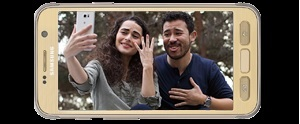
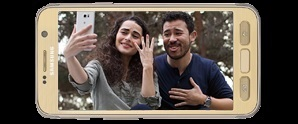
styled animation ad for responsiveness

diff --git a/animations/animation_example1.html b/animations/animation_example1.html
@@ -2,10 +2,11 @@
 <html>
   <head>
     <title>GSAP HTML5 Ad</title>
-    <link rel="stylesheet" href="./css/style.css" />
-    <link rel="stylesheet" href="./css/animate.css">
+    <link rel="stylesheet" href="./css/style.css"/>
+    <link rel="stylesheet" href="./css/animate.css"/>
+    <link rel="stylesheet" href="../css/bootstrap.css"/>
 
-    // load javascript first to prevent initial overlap of slide content
+    <!-- load javascript first to prevent initial overlap of slide content -->
     <script type="text/javascript" src="https://cdnjs.cloudflare.com/ajax/libs/gsap/1.19.0/TweenMax.min.js"></script>
     <script type="text/javascript" src="https://cdnjs.cloudflare.com/ajax/libs/gsap/1.19.0/TimelineLite.min.js"></script>
     <script type="text/javascript" src="https://cdnjs.cloudflare.com/ajax/libs/gsap/1.19.0/plugins/CSSPlugin.min.js"></script>
@@ -14,12 +15,21 @@
 
   </head>
   <body>
+  <nav class="navbar navbar-inverse navbar-fixed-top" role="navigation">
+      <div class="navbar-header">
+          <a class="navbar-brand" href="https://astpmeetup.github.io/#portfolio">Portfolio Home</a>
+      </div>
+  </nav>
+
+  <div id="previewBackground" class="img-responsive">
+    <img class="img-responsive" src="img/preview2.jpg">
+  </div>
   <div id="frame">
     <img id="logo" src="img/logo.png"/>
 
     <div id="slide1" class="slide">
       <h1 id="copy1">All day battery + water &#38; shatter-resistant.</h1>
-      <img id="phone1" src="img/phone2.jpg" />
+      <img id="phone1" src="img/phone1.jpg" />
       <p id="legal_copy1">Company X is not responsible for, and expressly disclaims all liability for, damages of any kind arising out of use,
         reference to, or reliance on any information contained within the site. While the information contained within the site is
         periodically updated, no guarantee is given that the information provided in this Web site is correct, complete, and up-to-date.

diff --git a/animations/css/style.css b/animations/css/style.css
@@ -1,25 +1,36 @@
-body{
-  font-family: "Segoe UI";
-  color:white;
+
+body {
+  color: white;
   margin: auto;
 }
 
 #frame {
   background-color:#000000;
-  position: relative;
+  position: absolute;
   -webkit-backface-visibility: hidden;
   width: 720px;
   height: 640px;
   overflow:hidden;
-  float:left;
+  float: left;
   margin: 0px;
+  z-index: 999;
+  margin: 100px 0px 0px 30px;
+  zoom: 70%;
+  color: #fff;
+  font-family: "Segoe UI";
 }
 
-@media (min-width: 800px) {
+@media (min-width: 1050px) {
   #frame {
-    zoom: 70%;
+     zoom: 50% !important;
     -moz-transform: scale(0.7);
     -moz-transform-origin: 0 0;
+    top: 620px !important;
+    margin: 0px !important;
+    left: 165px !important;
+  }
+  #previewBackground {
+    display: block !important;
   }
 }
 
@@ -97,8 +108,8 @@ body{
 
 #slide3 h1 {
   position: absolute;
-  top: 52%;
-  left: 47%;
+  top: 55%;
+  left: 52%;
   width: 75%;
   height: 200px;
   transform: matrix(1, 0, 0, 1, -240, -150);
@@ -134,20 +145,25 @@ body{
   width: 80%;
   height: 7%;
   z-index: 3;
-  font-size: 16px;
+  font-size: 20px;
   font-weight: 100;
+  color: #fff;
 }
 
 #learnMore {
   position: absolute;
   bottom: 0px;
   width: 100%;
-  height: 17%;
+  height: 15%;
   margin: 0;
   text-align: center;
   z-index: 4;
   font-size: 20px;
   background-color: #0099ff;
+}
+
+#learnMore > a > p {
+  color: #fff;
 }
 
 #slide5 span {
@@ -195,4 +211,18 @@ a {
 .highlightBig {
   color: #0099ff;
   font-size: 70px;
+}
+
+#previewBackground {
+  z-index: -1;
+  text-align: center;
+  margin: 80px 0px 0px 50px;
+  position: absolute;
+  display: none;
+}
+
+.navbar {
+  height: 20px;
+  padding-left: 20px;
+  font-size: 12px;
 }

diff --git a/animations/js/javascript.js b/animations/js/javascript.js
@@ -35,7 +35,7 @@ $(document).ready(function(){
      .from($slide1Header, 0.5, {x: '+=1000', autoAlpha:0, ease:Circ.easeInOut})
      .from($slide1Img, 0.5, {x: '-=500', autoAlpha:0, ease:Circ.easeInOut})
      .from($slide1Text, 1, {autoAlpha:0, ease:SlowMo.easeInOut})
-     .to($slide1Header, 0.5, {autoAlpha:0, x: '-=1000', ease:Circ.easeInOut, delay: 2, onComplete: displayNone})
+     .to($slide1Header, 0.5, {autoAlpha:0, x: '-=1000', ease:Circ.easeInOut, delay: 3, onComplete: displayNone})
      .to($slide1Text, 0.5, {autoAlpha:0, ease:SlowMo.easeInOut}, "-=0.5")
 
      .to($slide1Img, 0.75, {onUpdate: upAndLeft})
@@ -43,10 +43,10 @@ $(document).ready(function(){
      .from($slide2Header, 0.5, {x: '+=1000', autoAlpha:0, ease:Circ.easeInOut})
      .from($slide2Text, 0.5, {scale:0.5, autoAlpha:0, ease:SlowMo.easeInOut}, "-=0.5")
 
-     .to($slide2, 1, {autoAlpha:0, x: '-=1000', ease:Circ.easeInOut, delay: 2})
+     .to($slide2, 1, {autoAlpha:0, x: '-=1000', ease:Circ.easeInOut, delay: 3})
      .from($slide3Header, 1, {x: '+=1000', autoAlpha:0, ease:Back.easeInOut}, "-=1")
 
-     .to($slide3, 1, {autoAlpha:0, x: '-=1000', ease:Circ.easeInOut, delay: 2})
+     .to($slide3, 1, {autoAlpha:0, x: '-=1000', ease:Circ.easeInOut, delay: 3})
      .from($slide4Img, 1, {x: '+=1000', autoAlpha:0, ease:Circ.easeInOut})
      .from($slide4Header, 1, {x: '-=1000', autoAlpha:0, ease:Circ.easeInOut}, '-=1')
      .from($slide4Legal, 1, {y: '+=1000', autoAlpha:0, ease:SlowMo.easeOut, delay: 0.5})
